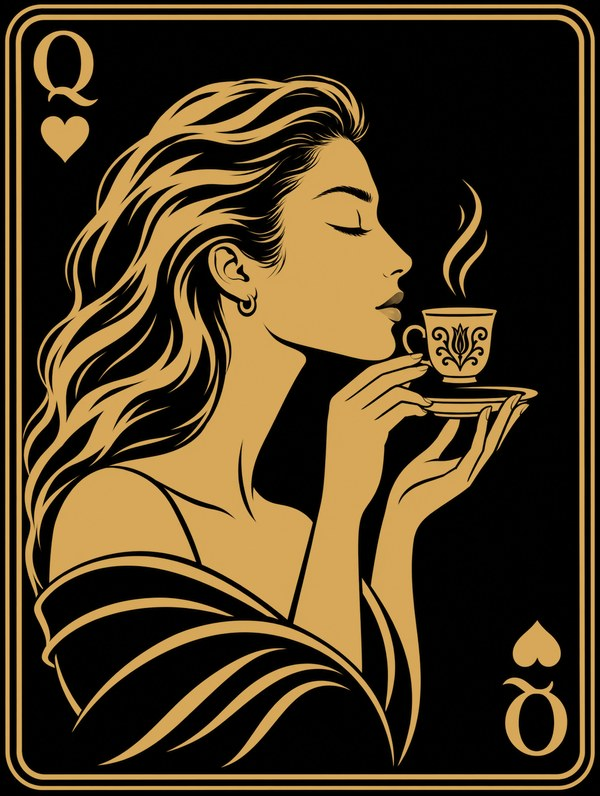
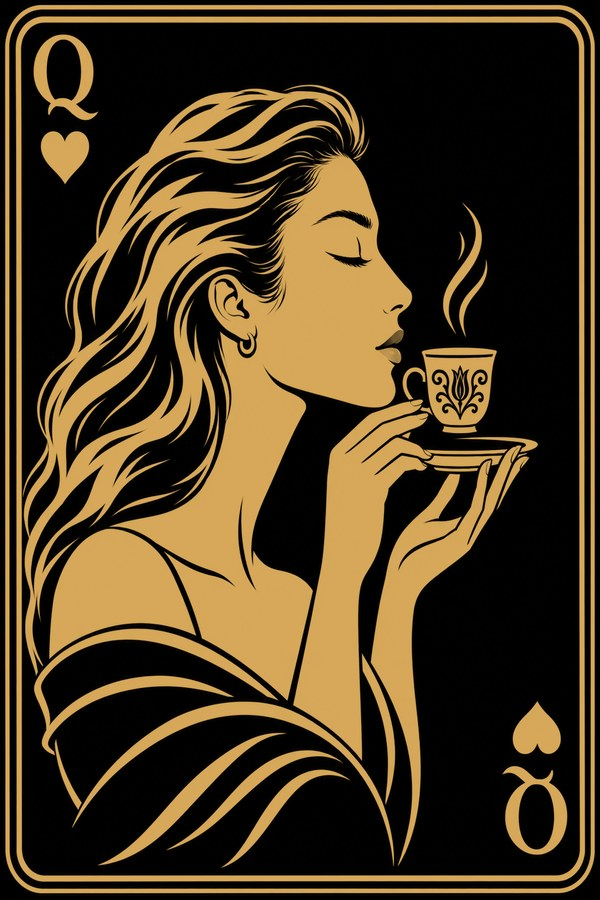
Kaffeesatz-Karte: richtiges Seitenverhältnis

Changed region(s): [[0.81, 0.4824, 0.84, 0.5126], [0.48, 0.2111, 0.51, 0.2412]]

diff --git a/index.html b/index.html
@@ -201,7 +201,7 @@
 <!-- KAFFEESATZ -->
 <section id="kaffeesatz" class="seite unter fal">
   <a class="zurueck" href="#start">Zurück</a>
-  <img class="fal-bild" src="kart_kaffeesatz.jpg" alt="Goldene Spielkarte mit Mokkatasse" width="880" height="1168">
+  <img class="fal-bild" src="kart_kaffeesatz.jpg" alt="Goldene Spielkarte mit Mokkatasse" width="880" height="1320">
   <h2>Leo’s liest deinen Kaffeesatz</h2>
   <p class="fal-satz">Ab Eröffnung: Mokka bestellen, Tasse umdrehen, wir lesen deinen Kaffeesatz an der Bar.</p>
   <ol class="schritte">
